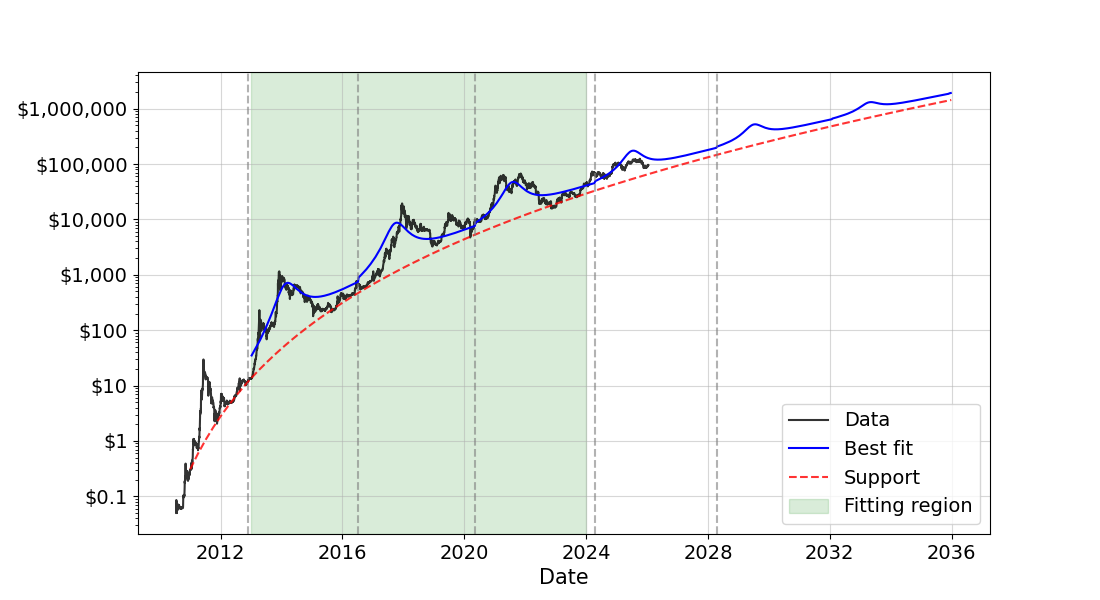
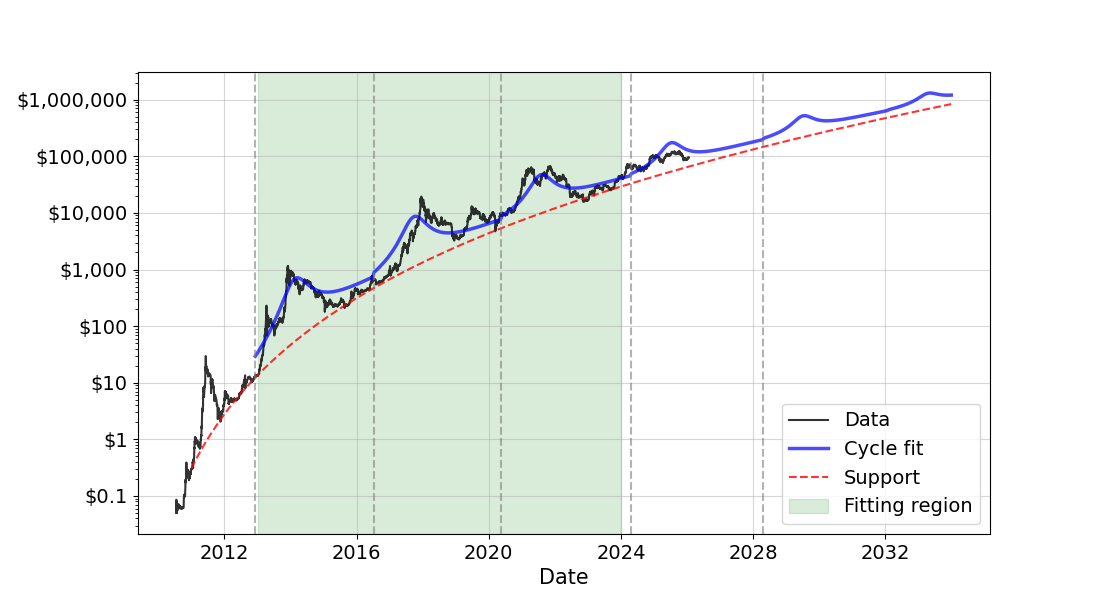
Update code and added result image

diff --git a/btc_fitting.py b/btc_fitting.py
@@ -130,11 +130,11 @@ def fit_PL_loglog(df, quantile=0.1, date_fit_start=None, date_fit_end=None, yaxi
     return qr, result_support, result_all
 
 def extrapolate_PL(yaxis, best_PL, support_PL, btc_price, day_extra, date_fit_start, date_fit_end, m2_growth_rate, btc_halving_daygen, 
-                   halving_mean_duration, loglogplot=0, plot_price=True):
+                   halving_mean_duration, loglogplot=0, plot_price=True, N_plot=500):
     '''extrapolate the simple PL models (support and entire dataset)
     plots the result with real dates and prices
     '''
-    xplot = np.linspace(date_to_daygen(date_fit_start, genesis_block_date), date_to_daygen(date_fit_end, genesis_block_date) + day_extra, 100)
+    xplot = np.linspace(date_to_daygen(date_fit_start, genesis_block_date), date_to_daygen(date_fit_end, genesis_block_date) + day_extra, N_plot)
     dateplot = genesis_block_date + np.timedelta64(1,'D') * xplot # for the semi-log plot
     # To do: combine support/best
     df_best = pd.DataFrame({'Date':dateplot, 'DAY_GEN':xplot, yaxis:best_PL.eval(xplot)})
